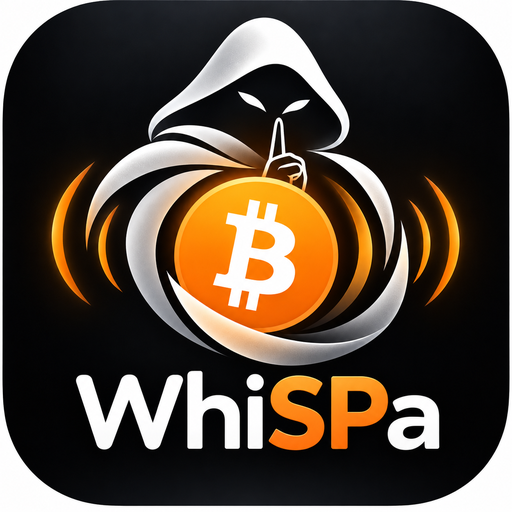
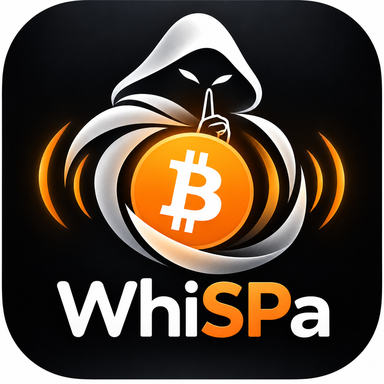
Serve the hero as one PNG, and the catch phrase you asked for
The hero was broken in deployment even though both files sat in the same
directory, and the <picture> element is why. A <source type="image/webp"> is a
commitment rather than a preference: once the browser accepts the declared type
it will not fall back to the <img> if that file 404s or arrives with the wrong
content-type from the host. The PNG beside it never gets a chance. That is the
classic trap with <picture>, and putting a 30KB saving behind it was not worth
the failure mode.

One plain <img> now, no negotiation and nothing to misconfigure. The PNG is also
right-sized while I am here: the hero renders at most 188px, so 512px was
oversized for its box. At 384px it still covers 2x retina and drops from 303KB
to 178KB -- most of the WebP saving, without the mechanism that broke.

The catch phrase is now "Your Bitcoin. Your business."

Telegram is dropped from the contact cards and from the fingerprint warning on
the download page, and X moves from @thrillabtc to @whispawallet in both. The
contact section said "all three places"; it says "both" now.

Checked in Chromium: the hero image decodes at 384px with HEADER as its parent
-- no picture wrapper left -- the heading reads "Your Bitcoin. Your business.",
and the contact section renders GitHub and X only.

Claude-Session: https://claude.ai/code/session_01PgdabkWkj6bsYDaqpYq9e6

Changed region(s): [[0.5625, 0.3125, 0.5938, 0.3438]]

diff --git a/index.html b/index.html
@@ -49,13 +49,10 @@
 </header>
 
 <header class="hero wrap">
-  <picture>
-    <source srcset="whispa-hero.webp" type="image/webp">
-    <img class="hero-mascot" src="whispa-hero.png"
-         alt="WhiSPa Wallet — a hooded figure signalling for quiet, holding a Bitcoin coin">
-  </picture>
+  <img class="hero-mascot" src="whispa-hero.png"
+       alt="WhiSPa Wallet — a hooded figure signalling for quiet, holding a Bitcoin coin">
   <div class="eyebrow"><span class="dot"></span> <b>Bitcoin only</b> · Self-custodial · Silent Payments</div>
-  <h1>Bitcoin that doesn't <em>announce itself</em>.</h1>
+  <h1>Your Bitcoin. <em>Your business.</em></h1>
   <p class="lead">Publish one <strong>Silent Payment</strong> address — on your site, in your bio, on a poster — and keep it forever. Every payment still lands on a fresh output that nobody can tie to you, or to each other. Your spend key stays on the device you use, and never reaches the server.</p>
 
   <div class="btc-note">
@@ -118,7 +115,7 @@
   <div class="sec-head">
     <div class="sec-tag">Contact</div>
     <div class="sec-title">Find us</div>
-    <p class="sec-sub">Questions, bug reports, or just following along — we're in all three places.</p>
+    <p class="sec-sub">Questions, bug reports, or just following along — we're in both places.</p>
   </div>
   <div class="contacts">
     <a class="contact-card" href="https://github.com/ponthief/thrilla" target="_blank" rel="noopener noreferrer">
@@ -126,15 +123,10 @@
       <span class="ct-v">ponthief/thrilla</span>
       <span class="ct-m">Source, releases and issues</span>
     </a>
-    <a class="contact-card" href="https://x.com/thrillabtc" target="_blank" rel="noopener noreferrer">
+    <a class="contact-card" href="https://x.com/whispawallet" target="_blank" rel="noopener noreferrer">
       <span class="ct-k">X</span>
-      <span class="ct-v">@thrillabtc</span>
+      <span class="ct-v">@whispawallet</span>
       <span class="ct-m">Release notes and news</span>
-    </a>
-    <a class="contact-card" href="https://t.me/thrilla_btc" target="_blank" rel="noopener noreferrer">
-      <span class="ct-k">Telegram</span>
-      <span class="ct-v">t.me/thrilla_btc</span>
-      <span class="ct-m">Ask a question, get a reply</span>
     </a>
   </div>
 

diff --git a/download.html b/download.html
@@ -113,9 +113,8 @@
 
   <div class="warnbox">
     <p><strong>Confirm this fingerprint somewhere other than this page</strong> — on
-      <a href="https://github.com/ponthief/thrilla" target="_blank" rel="noopener noreferrer">GitHub</a>,
-      <a href="https://x.com/thrillabtc" target="_blank" rel="noopener noreferrer">X</a> or
-      <a href="https://t.me/thrilla_btc" target="_blank" rel="noopener noreferrer">Telegram</a>.
+      <a href="https://github.com/ponthief/thrilla" target="_blank" rel="noopener noreferrer">GitHub</a> or
+      <a href="https://x.com/whispawallet" target="_blank" rel="noopener noreferrer">X</a>.
       Anyone who could serve you a fake APK from whispawallet.com could serve a fake key beside it, and the check would pass anyway.</p>
   </div>
 
